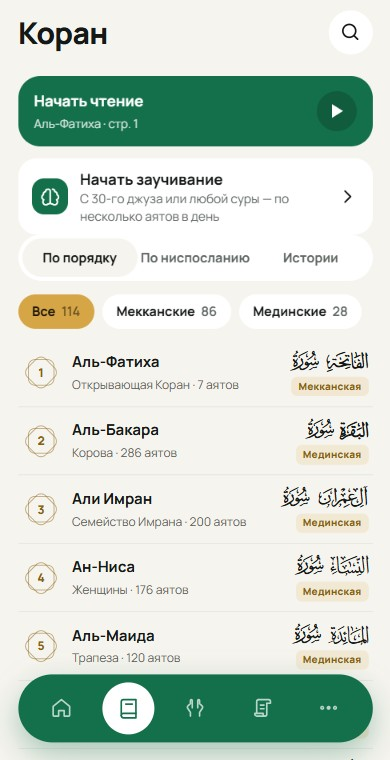
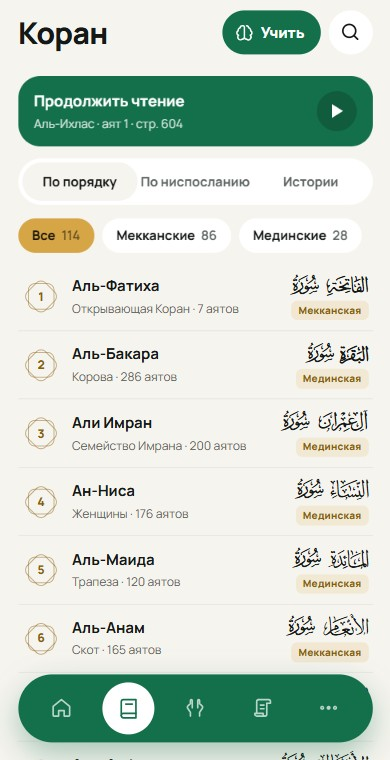
Заучивание Корана: кнопка «Учить» у поиска, подборки карточками, цели в страницах, разные иконки, цепочка только в шестерёнке, шапка настроек не прокручивается

diff --git a/app/src/screens/hifz/Quran.tsx b/app/src/screens/hifz/Quran.tsx
@@ -4,7 +4,7 @@ import { Icon } from '../../components/Icon'
 import { plural, Sheet, SheetHead, useQuranMeta } from '../../components/ui'
 import { loadSurah, surahGlyph, type Surah } from '../../lib/data'
 import { dayNum, inDays } from '../../lib/hifz'
-import { linesOf, MAX_AYAHS, nextStart, parseQKey, passageFrom, QSETS, qSet, setProgress, surahProgress } from '../../lib/hifzQuran'
+import { linesOf, MAX_AYAHS, nextStart, pagesText, parseQKey, passageFrom, QSETS, qSet, remainingWords, setProgress, surahProgress, type QSet } from '../../lib/hifzQuran'
 import { haptic } from '../../lib/telegram'
 import { dayStr, useStore } from '../../store/settings'
 import { HifzTabs, StageDots } from './parts'
@@ -129,20 +129,30 @@ export default function QuranHifz() {
       )}
 
       <div className="group-t">Что учить</div>
-      <button className="qh-cur" onClick={() => setPick(true)}>
-        <div className="num-badge"><span>{next?.s ?? '✓'}</span></div>
-        <div className="t">
-          <b>{bySurah ? `Сура ${name(st.qhPos!.s)}` : set.name}</b>
-          <span>{next ? `Дальше: ${name(next.s)}, ${next.a === next.b ? `аят ${next.a}` : `аяты ${next.a}–${next.b}`}` : 'Всё выбранное уже в заучивании — выберите, что дальше'}</span>
-        </div>
-        <span className="hz-count">Выбрать</span>
-      </button>
+      <div className="hz-sets">
+        {QSETS.map((q) => (
+          <button key={q.id} className={!bySurah && st.qhSet === q.id ? 'on' : ''} onClick={() => { haptic.tick(); st.set({ qhSet: q.id, qhPos: null }) }}>
+            <span className="hz-sets-ar">{q.ar}</span>
+            <b>{q.short}</b>
+            <small>{surahs ? setSize(q, surahs) : ' '}</small>
+          </button>
+        ))}
+        <button className={bySurah ? 'on' : ''} onClick={() => { haptic.tick(); setPick(true) }}>
+          <span className="hz-sets-ar">سورة</span>
+          <b>{bySurah ? name(st.qhPos!.s) : 'Другая сура'}</b>
+          <small>{bySurah ? 'выбрана' : 'любая из 114'}</small>
+        </button>
+      </div>
+      <p className="hz-how">
+        {next ? `Дальше: ${name(next.s)}, ${next.a === next.b ? `аят ${next.a}` : `аяты ${next.a}–${next.b}`}. ` : 'Всё выбранное уже в заучивании — выберите другое. '}
+        {!bySurah && set.why}
+      </p>
       {surahs && <Goal surahs={surahs} onEdit={() => setGoal(true)} />}
 
       <div className="group-t">План</div>
       <div className="group">
         <div className="sitem">
-          <span className="si" style={{ background: 'var(--emerald)' }}><Icon id="star" /></span>
+          <span className="si" style={{ background: 'var(--emerald)' }}><Icon id="sunrise" /></span>
           <span className="t">Новых аятов в день<small className="hz-sub">{next ? `Сейчас это ≈ ${linesOf(next.words)} ${plural(linesOf(next.words), 'строка', 'строки', 'строк')} мусхафа` : 'Длинные аяты делятся на отрывки поменьше'}</small></span>
           <span className="hz-step">
             <button onClick={() => setPlan(plan - 1)} disabled={plan <= 1} aria-label="Меньше"><Icon id="minus" /></button>
@@ -184,6 +194,26 @@ export default function QuranHifz() {
   )
 }
 
+/** Сколько аятов в подборке */
+const setSize = (q: QSet, surahs: Surah[]) => {
+  const n = q.ranges.reduce((a, r) => a + (r.b ? r.b - (r.a ?? 1) + 1 : surahs[r.s - 1].ayahs - (r.a ?? 1) + 1), 0)
+  return `${n} ${plural(n, 'аят', 'аята', 'аятов')}`
+}
+const amount = (words: number, ayahs: number) => `${pagesText(words)} (${ayahs} ${plural(ayahs, 'аят', 'аята', 'аятов')})`
+
+/** Слова по аятам для сур (грузим по мере надобности) — чтобы считать объём в страницах */
+function useWordsOf(ids: number[]) {
+  const [m, setM] = useState<Record<number, number[]>>({})
+  const key = ids.join()
+  useEffect(() => {
+    let alive = true
+    const need = ids.filter((s) => !m[s])
+    if (need.length) Promise.all(need.map((s) => loadSurah(s).then((a) => [s, a.map((x) => x.w.length)] as const))).then((r) => alive && setM((o) => ({ ...o, ...Object.fromEntries(r) })))
+    return () => { alive = false }
+  }, [key]) // eslint-disable-line react-hooks/exhaustive-deps
+  return (s: number) => m[s]
+}
+
 const drillText = (d: number) => (d === 3 ? 'видно слово через два' : d === 2 ? 'видно слово через одно' : d === 23 ? 'через одно, потом через два' : 'без упражнений')
 
 /** Что сейчас учим целиком: выбранная сура или подборка — для цели */
@@ -191,8 +221,9 @@ function useTarget(surahs: Surah[]) {
   const st = useStore()
   const count = (s: number) => surahs[s - 1].ayahs
   const t = st.qhGoal?.t ?? (st.qhPos && !qSet(st.qhSet).ranges.some((r) => r.s === st.qhPos!.s) ? 's:' + st.qhPos.s : 'set:' + st.qhSet)
-  const set = t.startsWith('s:') ? { id: t, name: 'Сура ' + surahs[+t.slice(2) - 1].name, sub: '', ranges: [{ s: +t.slice(2) }] } : qSet(t.slice(4))
-  return { t, set, ...setProgress(st.qhifz, set, count) }
+  const set: QSet = t.startsWith('s:') ? { id: t, name: 'Сура ' + surahs[+t.slice(2) - 1].name, ar: '', short: '', sub: '', ranges: [{ s: +t.slice(2) }] } : qSet(t.slice(4))
+  const wordsOf = useWordsOf([...new Set(set.ranges.map((r) => r.s))])
+  return { t, set, ...setProgress(st.qhifz, set, count), rem: remainingWords(st.qhifz, set, wordsOf) }
 }
 
 /** Цель: выучить подборку или суру к дате → сколько аятов в день */
@@ -203,7 +234,7 @@ function Goal({ surahs, onEdit }: { surahs: Surah[]; onEdit: () => void }) {
   const tg = useTarget(surahs)
   if (!g) return (
     <button className="qh-cur" style={{ marginTop: 8 }} onClick={onEdit}>
-      <span className="si" style={{ background: 'var(--emerald)', width: 36, height: 36, borderRadius: 12, display: 'grid', placeItems: 'center', color: '#fff' }}><Icon id="star" /></span>
+      <span className="si" style={{ background: '#3E7CB1', width: 36, height: 36, borderRadius: 12, display: 'grid', placeItems: 'center', color: '#fff' }}><Icon id="compass" /></span>
       <div className="t"><b>Поставить цель</b><span>Например, выучить «{tg.set.name}» к определённой дате</span></div>
       <Icon id="right" />
     </button>
@@ -211,13 +242,19 @@ function Goal({ surahs, onEdit }: { surahs: Surah[]; onEdit: () => void }) {
   const days = Math.max(1, g.by - dayNum())
   const left = tg.total - tg.done
   const need = Math.ceil(left / days)
+  const rem = tg.rem
   return (
     <div className="qh-cur qh-goal" style={{ marginTop: 8, display: 'block' }} onClick={onEdit}>
       <b>Цель: {tg.set.name}</b>
       <div className="bar"><i style={{ width: `${tg.total ? (tg.done / tg.total) * 100 : 0}%` }} /></div>
-      <p>{left === 0 ? 'Цель достигнута — машаАллах!' : g.by < dayNum() ? `Срок прошёл, осталось ${left} ${plural(left, 'аят', 'аята', 'аятов')}` : `${tg.done} из ${tg.total} · осталось ${days} ${plural(days, 'день', 'дня', 'дней')} · нужно ≈ ${need} ${plural(need, 'аят', 'аята', 'аятов')} в день`}</p>
+      {left === 0 ? <p>Цель достигнута — машаАллах!</p> : !rem ? <p>Считаем…</p> : (
+        <>
+          <p>Осталось {amount(rem.words, rem.ayahs)}</p>
+          <p>{g.by < dayNum() ? 'Срок прошёл' : `${days} ${plural(days, 'день', 'дня', 'дней')} · нужно ${amount(rem.words / days, need)} в день`}</p>
+        </>
+      )}
       {left > 0 && g.by >= dayNum() && need !== plan && (
-        <button className="hz-again" style={{ marginTop: 8 }} onClick={(e) => { e.stopPropagation(); haptic.tap(); set({ qhPerDay: Math.min(30, need) }) }}>Поставить {Math.min(30, need)} в день</button>
+        <button className="hz-again" style={{ marginTop: 8 }} onClick={(e) => { e.stopPropagation(); haptic.tap(); set({ qhPerDay: Math.min(30, need) }) }}>Поставить {Math.min(30, need)} {plural(Math.min(30, need), 'аят', 'аята', 'аятов')} в день</button>
       )}
     </div>
   )
@@ -228,22 +265,17 @@ function GoalSheet({ surahs, onClose }: { surahs: Surah[]; onClose: () => void }
   const set = useStore((s) => s.set)
   const tg = useTarget(surahs)
   const left = tg.total - tg.done
+  const rem = tg.rem
   const choose = (weeks: number) => { haptic.tick(); set({ qhGoal: { t: tg.t, by: dayNum() + weeks * 7 } }); onClose() }
+  const label = (w: number) => (w < 4 ? `${w} ${plural(w, 'неделя', 'недели', 'недель')}` : w === 52 ? 'Год' : w === 26 ? 'Полгода' : `${w / 4} ${plural(w / 4, 'месяц', 'месяца', 'месяцев')}`)
+  const opts = rem ? [1, 2, 4, 8, 12, 26, 52].map((w) => ({ w, text: amount(rem.words / (w * 7), Math.ceil(left / (w * 7))) })).filter((o, k, all) => !k || o.text !== all[k - 1].text) : []
   return (
     <Sheet onClose={onClose}>
-      <SheetHead title="Цель" sub={`${tg.set.name} · осталось ${left} ${plural(left, 'аят', 'аята', 'аятов')}`} onClose={onClose} />
+      <SheetHead title="Цель" sub={rem ? `${tg.set.name} · осталось ${amount(rem.words, rem.ayahs)}` : tg.set.name} onClose={onClose} />
       <div className="hz-sheet-btns">
-        <p className="hz-how" style={{ margin: 0 }}>За какой срок выучить? Приложение посчитает, сколько аятов нужно в день. Цель — то, что сейчас выбрано в «Что учить».</p>
-        {[1, 2, 4, 8, 12, 26, 52].map((w, k, all) => {
-          const need = Math.ceil(left / (w * 7))
-          // одинаковое «≈ N в день» не повторяем — оставляем самый короткий срок
-          if (k && need === Math.ceil(left / (all[k - 1] * 7))) return null
-          return (
-            <button key={w} className="hz-again" onClick={() => choose(w)}>
-              {w < 4 ? `${w} ${plural(w, 'неделя', 'недели', 'недель')}` : w === 52 ? 'Год' : w === 26 ? 'Полгода' : `${w / 4} ${plural(w / 4, 'месяц', 'месяца', 'месяцев')}`} · ≈ {need} {plural(need, 'аят', 'аята', 'аятов')} в день
-            </button>
-          )
-        })}
+        <p className="hz-how" style={{ margin: 0 }}>За какой срок выучить? Приложение посчитает, сколько нужно в день (объём в страницах примерный). Цель — то, что сейчас выбрано в «Что учить».</p>
+        {!rem && <div className="loading">Считаем…</div>}
+        {opts.map((o) => <button key={o.w} className="hz-again" onClick={() => choose(o.w)}>{label(o.w)} · {o.text} в день</button>)}
         {g && <button className="hz-warn-go" onClick={() => { set({ qhGoal: null }); onClose() }}>Убрать цель</button>}
       </div>
     </Sheet>
@@ -259,29 +291,11 @@ function rowText(pr: ReturnType<typeof surahProgress>, total: number) {
 /** Выбор, откуда учить: 30-й джуз с конца или любая сура */
 function PickSheet({ surahs, onClose }: { surahs: Surah[]; onClose: () => void }) {
   const set = useStore((s) => s.set)
-  const cur = useStore((s) => s.qhSet)
-  const cards = useStore((s) => s.qhifz)
   const choose = (pos: { s: number; a: number } | null) => { haptic.tick(); set({ qhPos: pos }); onClose() }
-  const chooseSet = (id: string) => { haptic.tick(); set({ qhSet: id, qhPos: null }); onClose() }
   return (
     <Sheet onClose={onClose} tall>
-      <SheetHead title="Что учить" sub="Новые аяты будут браться отсюда" onClose={onClose} />
+      <SheetHead title="Выберите суру" sub="Новые аяты будут браться отсюда, с первого аята" onClose={onClose} />
       <div className="body qh-pick">
-        <div className="group-t" style={{ marginTop: 0 }}>Подборки</div>
-        {QSETS.map((q) => {
-          const pr = setProgress(cards, q, (s) => surahs[s - 1].ayahs)
-          return (
-            <button key={q.id} className="list-item" onClick={() => chooseSet(q.id)}>
-              <div className="ib"><Icon id={cur === q.id ? 'check' : 'book'} /></div>
-              <div className="t">
-                <b>{q.name}</b>
-                <span>{q.sub}{pr.done ? ` · ${pr.done} из ${pr.total}` : ''}</span>
-                {q.why && <span className="qh-why">{q.why}</span>}
-              </div>
-            </button>
-          )
-        })}
-        <div className="group-t">Любая сура</div>
         {surahs.map((s) => (
           <button key={s.id} className="srow" onClick={() => choose({ s: s.id, a: 1 })}>
             <div className="num-badge"><span>{s.id}</span></div>

diff --git a/app/src/lib/hifzQuran.ts b/app/src/lib/hifzQuran.ts
@@ -18,6 +18,24 @@ export const MAX_WORDS = 60
 /** Слов в строке мусхафа — в среднем, для подсказки «≈ N строк» */
 const WORDS_PER_LINE = 9
 export const linesOf = (words: number) => Math.max(1, Math.round(words / WORDS_PER_LINE))
+/** Слов на странице мусхафа — в среднем (15 строк) */
+export const WORDS_PER_PAGE = WORDS_PER_LINE * 15
+/** Объём словами по-русски: «≈ 3 страницы», «треть страницы», «полстраницы» */
+export function pagesText(words: number) {
+  const p = words / WORDS_PER_PAGE
+  if (p < 0.2) return 'меньше четверти страницы'
+  if (p < 0.3) return 'четверть страницы'
+  if (p < 0.42) return 'треть страницы'
+  if (p < 0.58) return 'полстраницы'
+  if (p < 0.72) return 'две трети страницы'
+  if (p < 0.88) return 'три четверти страницы'
+  if (p < 1.25) return 'страница'
+  const n = Math.round(p * 2) / 2
+  const t = String(n).replace('.', ',')
+  const last = Math.floor(n) % 10, teen = Math.floor(n) % 100 >= 11 && Math.floor(n) % 100 <= 14
+  const w = n % 1 ? 'страницы' : teen ? 'страниц' : last === 1 ? 'страница' : last >= 2 && last <= 4 ? 'страницы' : 'страниц'
+  return `${t} ${w}`
+}
 /** Больше стольких аятов в день — предупреждение */
 export const MAX_AYAHS = 10
 
@@ -34,18 +52,18 @@ export function coveredAyahs(cards: Record<string, HifzCard>, s: number) {
 /** Отрезок для заучивания: сура, с аята a по b (b не задан — до конца суры) */
 export interface QRange { s: number; a?: number; b?: number }
 /** Подборка: что учить по порядку */
-export interface QSet { id: string; name: string; sub: string; why?: string; ranges: QRange[] }
+export interface QSet { id: string; name: string; /** название на арабском и короткое — для карточки */ ar: string; short: string; sub: string; why?: string; ranges: QRange[] }
 const whole = (...ids: number[]) => ids.map((s) => ({ s }))
 export const QSETS: QSet[] = [
-  { id: 'juz30', name: '30-й джуз · с конца', sub: 'ан-Нас, аль-Фаляк, аль-Ихлас … ан-Наба', why: 'Короткие суры — с них обычно начинают', ranges: whole(...JUZ30) },
-  { id: 'salah', name: 'Для намаза', sub: 'аль-Фатиха и 10 коротких сур', why: 'Аль-Фатиха читается в каждом ракаате', ranges: whole(1, 114, 113, 112, 111, 110, 109, 108, 107, 106, 105, 103) },
-  { id: 'kursi', name: 'Аят аль-Курси', sub: 'Аль-Бакара, 255', why: 'Величайший аят Корана (Муслим)', ranges: [{ s: 2, a: 255, b: 255 }] },
-  { id: 'baqara-end', name: 'Конец суры аль-Бакара', sub: 'Аль-Бакара, 285–286', why: 'Кто прочтёт их ночью, тому их будет достаточно (аль-Бухари, Муслим)', ranges: [{ s: 2, a: 285, b: 286 }] },
-  { id: 'kahf10', name: 'Начало суры аль-Кахф', sub: 'Аль-Кахф, 1–10', why: 'Кто выучит первые десять аятов, будет защищён от Даджаля (Муслим)', ranges: [{ s: 18, a: 1, b: 10 }] },
-  { id: 'mulk', name: 'Аль-Мульк', sub: '30 аятов', why: 'Сура заступится за читавшего её, пока ему не простят (ат-Тирмизи)', ranges: whole(67) },
-  { id: 'juz29', name: '29-й джуз', sub: 'аль-Мульк … аль-Мурсалят', ranges: whole(67, 68, 69, 70, 71, 72, 73, 74, 75, 76, 77) },
-  { id: 'popular', name: 'Известные суры', sub: 'Йа Син, ар-Рахман, аль-Ваки‘а, ас-Саджда', ranges: whole(36, 55, 56, 32) },
-  { id: 'kahf', name: 'Аль-Кахф', sub: '110 аятов', why: 'Сура, которую читают в пятницу', ranges: whole(18) },
+  { id: 'juz30', name: '30-й джуз · с конца', ar: 'جزء عمّ', short: '30-й джуз', sub: 'ан-Нас, аль-Фаляк, аль-Ихлас … ан-Наба', why: 'Короткие суры — с них обычно начинают', ranges: whole(...JUZ30) },
+  { id: 'salah', name: 'Для намаза', ar: 'للصلاة', short: 'Для намаза', sub: 'аль-Фатиха и 10 коротких сур', why: 'Аль-Фатиха читается в каждом ракаате', ranges: whole(1, 114, 113, 112, 111, 110, 109, 108, 107, 106, 105, 103) },
+  { id: 'kursi', name: 'Аят аль-Курси', ar: 'آية الكرسي', short: 'Аят аль-Курси', sub: 'Аль-Бакара, 255', why: 'Величайший аят Корана (Муслим)', ranges: [{ s: 2, a: 255, b: 255 }] },
+  { id: 'baqara-end', name: 'Конец суры аль-Бакара', ar: 'خواتيم البقرة', short: 'Конец аль-Бакары', sub: 'Аль-Бакара, 285–286', why: 'Кто прочтёт их ночью, тому их будет достаточно (аль-Бухари, Муслим)', ranges: [{ s: 2, a: 285, b: 286 }] },
+  { id: 'kahf10', name: 'Начало суры аль-Кахф', ar: 'أوائل الكهف', short: 'Начало аль-Кахф', sub: 'Аль-Кахф, 1–10', why: 'Кто выучит первые десять аятов, будет защищён от Даджаля (Муслим)', ranges: [{ s: 18, a: 1, b: 10 }] },
+  { id: 'mulk', name: 'Аль-Мульк', ar: 'الملك', short: 'Аль-Мульк', sub: '30 аятов', why: 'Сура заступится за читавшего её, пока ему не простят (ат-Тирмизи)', ranges: whole(67) },
+  { id: 'juz29', name: '29-й джуз', ar: 'جزء تبارك', short: '29-й джуз', sub: 'аль-Мульк … аль-Мурсалят', ranges: whole(67, 68, 69, 70, 71, 72, 73, 74, 75, 76, 77) },
+  { id: 'popular', name: 'Известные суры', ar: 'سور مشهورة', short: 'Известные суры', sub: 'Йа Син, ар-Рахман, аль-Ваки‘а, ас-Саджда', ranges: whole(36, 55, 56, 32) },
+  { id: 'kahf', name: 'Аль-Кахф', ar: 'الكهف', short: 'Аль-Кахф', sub: '110 аятов', why: 'Сура, которую читают в пятницу', ranges: whole(18) },
 ]
 export const qSet = (id: string) => QSETS.find((x) => x.id === id) ?? QSETS[0]
 
@@ -74,6 +92,18 @@ export function setProgress(cards: Record<string, HifzCard>, set: QSet, ayahCoun
     for (let a = r.a ?? 1; a <= end; a++) { total++; if (cov.has(a)) done++ }
   }
   return { done, total }
+}
+
+/** Сколько слов ещё не в заучивании в подборке (words — число слов по аятам суры: нужны данные сур) */
+export function remainingWords(cards: Record<string, HifzCard>, set: QSet, wordsOf: (s: number) => number[] | undefined) {
+  let words = 0, ayahs = 0
+  for (const r of set.ranges) {
+    const w = wordsOf(r.s)
+    if (!w) return null
+    const cov = coveredAyahs(cards, r.s)
+    for (let a = r.a ?? 1; a <= (r.b ?? w.length); a++) if (!cov.has(a)) { words += w[a - 1]; ayahs++ }
+  }
+  return { words, ayahs }
 }
 
 /** Отрывок с аята a: до n аятов подряд (не дальше end, конца суры и уже выученных), не длиннее MAX_WORDS слов */

diff --git a/app/src/screens/SurahList.tsx b/app/src/screens/SurahList.tsx
@@ -10,7 +10,6 @@ import { setStoryMode, useStoryMode, type StoryMode } from '../lib/storyMode'
 import { useKulievIndex } from './reader/Kuliev'
 import { MODE_LABEL, modeSurahs } from './Stories'
 import { useStore } from '../store/settings'
-import { useQhToday } from './hifz/Quran'
 
 type Place = 'all' | 'mk' | 'md'
 
@@ -127,9 +126,12 @@ export default function SurahList() {
             <input autoFocus placeholder="Сура или номер страницы" value={query} onChange={(e) => setQuery(e.target.value)} />
           </div>
         )}
-        <button className="icon-btn" onClick={() => setQuery(query === null ? '' : null)} aria-label="Поиск">
-          <Icon id={query === null ? 'search' : 'close'} />
-        </button>
+        <div className="sl-right">
+          {query === null && <button className="sl-learn" onClick={() => { haptic.tap(); nav('/hifz/quran') }} aria-label="Заучивание"><Icon id="brain" />Учить</button>}
+          <button className="icon-btn" onClick={() => setQuery(query === null ? '' : null)} aria-label="Поиск">
+            <Icon id={query === null ? 'search' : 'close'} />
+          </button>
+        </div>
       </div>
 
       {/* блок под заголовком «прилипает» и при прокрутке вниз уезжает под заголовок (без скачков списка) */}
@@ -154,7 +156,6 @@ export default function SurahList() {
                 <div className="go"><Icon id="play" /></div>
               </button>
             )}
-            {sort !== 'stories' && <HifzButton />}
             <div className="sortseg">
               <button className={sort === 'mushaf' ? 'on' : ''} onClick={() => setSort('mushaf')}>По порядку</button>
               <button className={sort === 'rev' ? 'on' : ''} onClick={() => setSort('rev')}>По ниспосланию</button>
@@ -234,18 +235,3 @@ export default function SurahList() {
   )
 }
 
-/** Под «Продолжить чтение»: вход в заучивание Корана — что на сегодня */
-function HifzButton() {
-  const nav = useNavigate()
-  const { due, newLeft, started } = useQhToday()
-  const sub = !started ? 'С 30-го джуза или любой суры — по несколько аятов в день'
-    : due.length ? `${due.length} на повтор${newLeft ? ` · ${newLeft} ${plural(newLeft, 'новый аят', 'новых аята', 'новых аятов')}` : ''}`
-      : newLeft ? `Сегодня ${newLeft} ${plural(newLeft, 'новый аят', 'новых аята', 'новых аятов')}` : 'На сегодня всё — машаАллах!'
-  return (
-    <button className="sl-hifz" onClick={() => { haptic.tap(); nav('/hifz/quran') }}>
-      <span className="ib"><Icon id="brain" /></span>
-      <span className="t"><b>{started ? 'Заучивание' : 'Начать заучивание'}</b><span>{sub}</span></span>
-      <Icon id="right" />
-    </button>
-  )
-}

diff --git a/app/src/screens/hifz/QuranSession.tsx b/app/src/screens/hifz/QuranSession.tsx
@@ -228,12 +228,6 @@ function Listen({ item }: { item: QItem }) {
         <span>Скорость</span>
         {RATES.map((r) => <button key={r} className={rate === r ? 'on' : ''} onClick={() => { haptic.tick(); set({ qhRate: r }) }}>{String(r).replace('.', ',')}</button>)}
       </div>
-      {item.ayahs.length > 1 && (
-        <button className="qh-sw" style={{ marginTop: 12 }} onClick={() => { haptic.tick(); set({ qhChain: !chain }) }}>
-          <span className="t">Цепочкой<small>Аят 1 → 1–2 → 1–3: каждый новый аят сразу связывается с предыдущими</small></span>
-          <span className={'switch' + (chain ? ' on' : '')} />
-        </button>
-      )}
       {error && <p className="hz-tip">{error}</p>}
     </div>
   )
@@ -252,9 +246,9 @@ export function GearSheet({ onClose }: { onClose: () => void }) {
     </button>
   )
   return (
-    <Sheet onClose={onClose}>
+    <Sheet onClose={onClose} tall>
       <SheetHead title="Настройки заучивания" onClose={onClose} />
-      <div className="qh-set">
+      <div className="body qh-set">
         <div>
           <div className="qh-set-l">Упражнение<small>Сколько слов видно перед чтением по памяти</small></div>
           <div className="qh-chips">
@@ -280,7 +274,7 @@ export function GearSheet({ onClose }: { onClose: () => void }) {
           <div className="qh-set-l">Каждый аят при прослушивании</div>
           <div className="qh-chips">{[1, 3, 5].map((n) => chip(n, st.qhRepeat, n + '×', (v) => st.set({ qhRepeat: v })))}</div>
         </div>
-        {sw(st.qhChain, 'Слушать цепочкой', 'Аят 1 → 1–2 → 1–3', () => st.set({ qhChain: !st.qhChain }))}
+        {sw(st.qhChain, 'Слушать цепочкой', 'Аят 1 → 1–2 → 1–3: каждый новый аят сразу связывается с предыдущими. Пригодится, когда в отрывке несколько аятов', () => st.set({ qhChain: !st.qhChain }))}
       </div>
     </Sheet>
   )

diff --git a/app/src/styles/app.css b/app/src/styles/app.css
@@ -1349,7 +1349,7 @@ tajweed.iqlab { color: var(--tj-iqlab); }
 .qw-wbw .w.gap { box-shadow: inset 0 -2px 0 var(--gold-soft, rgba(201,138,43,.45)); }
 .qw-wbw .w.gap .wa { visibility: hidden; }
 .qh-ayah.playing .qw-wbw { background: var(--highlight); border-radius: 12px; }
-.qh-set { display: flex; flex-direction: column; gap: 14px; padding: 4px 16px 20px; }
+.qh-set { display: flex; flex-direction: column; gap: 14px; padding: 4px 0 20px; }
 .qh-set-l { font-size: 13px; font-weight: 700; color: var(--text-2); margin-bottom: 6px; }
 .qh-set-l small { display: block; font-weight: 500; margin-top: 2px; }
 .qh-chips { display: flex; flex-wrap: wrap; gap: 6px; }
@@ -1370,8 +1370,6 @@ tajweed.iqlab { color: var(--tj-iqlab); }
 .qh-goal .bar { height: 6px; border-radius: 3px; background: var(--surface-2); overflow: hidden; margin: 8px 0 6px; }
 .qh-goal .bar i { display: block; height: 100%; background: var(--emerald); border-radius: 3px; }
 .qh-goal p { margin: 0; font-size: 13px; color: var(--text-2); }
-.sl-hifz { display: flex; align-items: center; gap: 12px; width: 100%; margin-top: 8px; padding: 10px 14px; border-radius: 18px; background: var(--surface); text-align: left; }
-.sl-hifz .ib { width: 36px; height: 36px; border-radius: 12px; display: grid; place-items: center; background: var(--emerald); color: #fff; flex: 0 0 auto; }
-.sl-hifz .t { flex: 1; display: flex; flex-direction: column; }
-.sl-hifz .t b { font-size: 15px; }
-.sl-hifz .t span { font-size: 12.5px; color: var(--text-2); }
+.sl-right { display: flex; align-items: center; gap: 8px; }
+.sl-learn { display: flex; align-items: center; gap: 6px; height: 44px; padding: 0 16px 0 12px; border-radius: 22px; background: var(--emerald); color: #fff; font-weight: 800; font-size: 15px; }
+.sl-learn .icon { width: 20px; height: 20px; }
